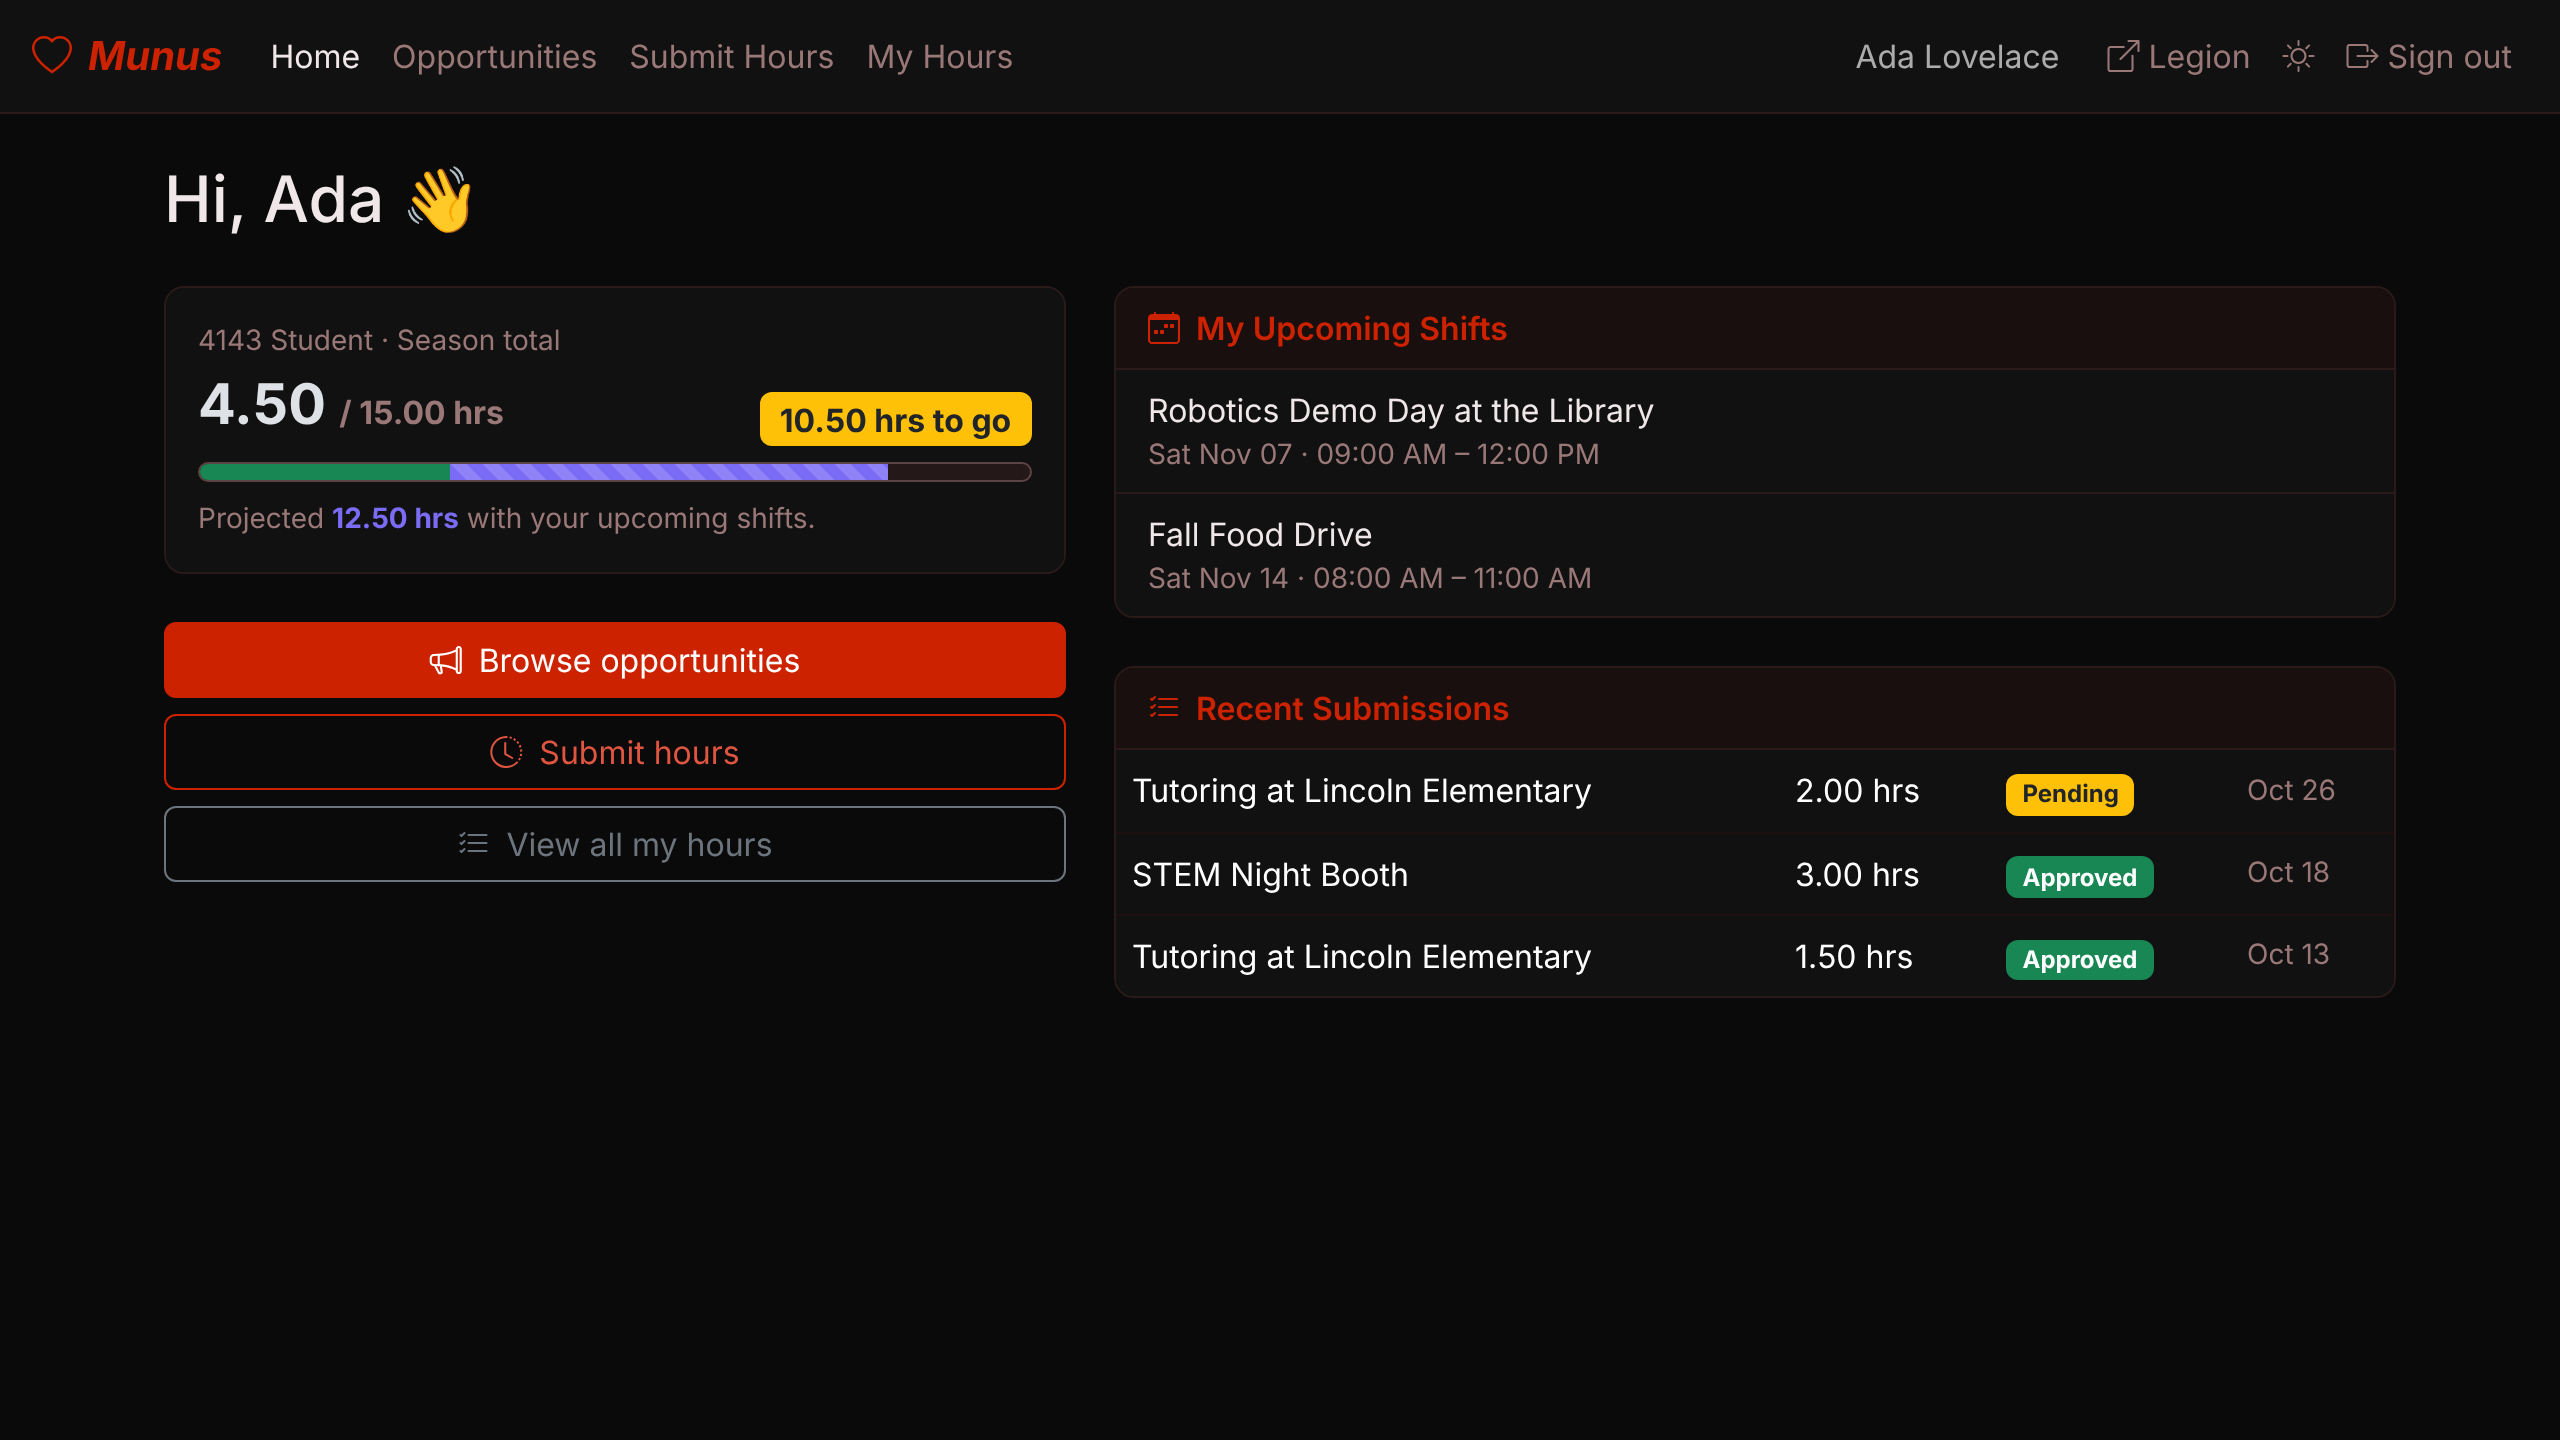
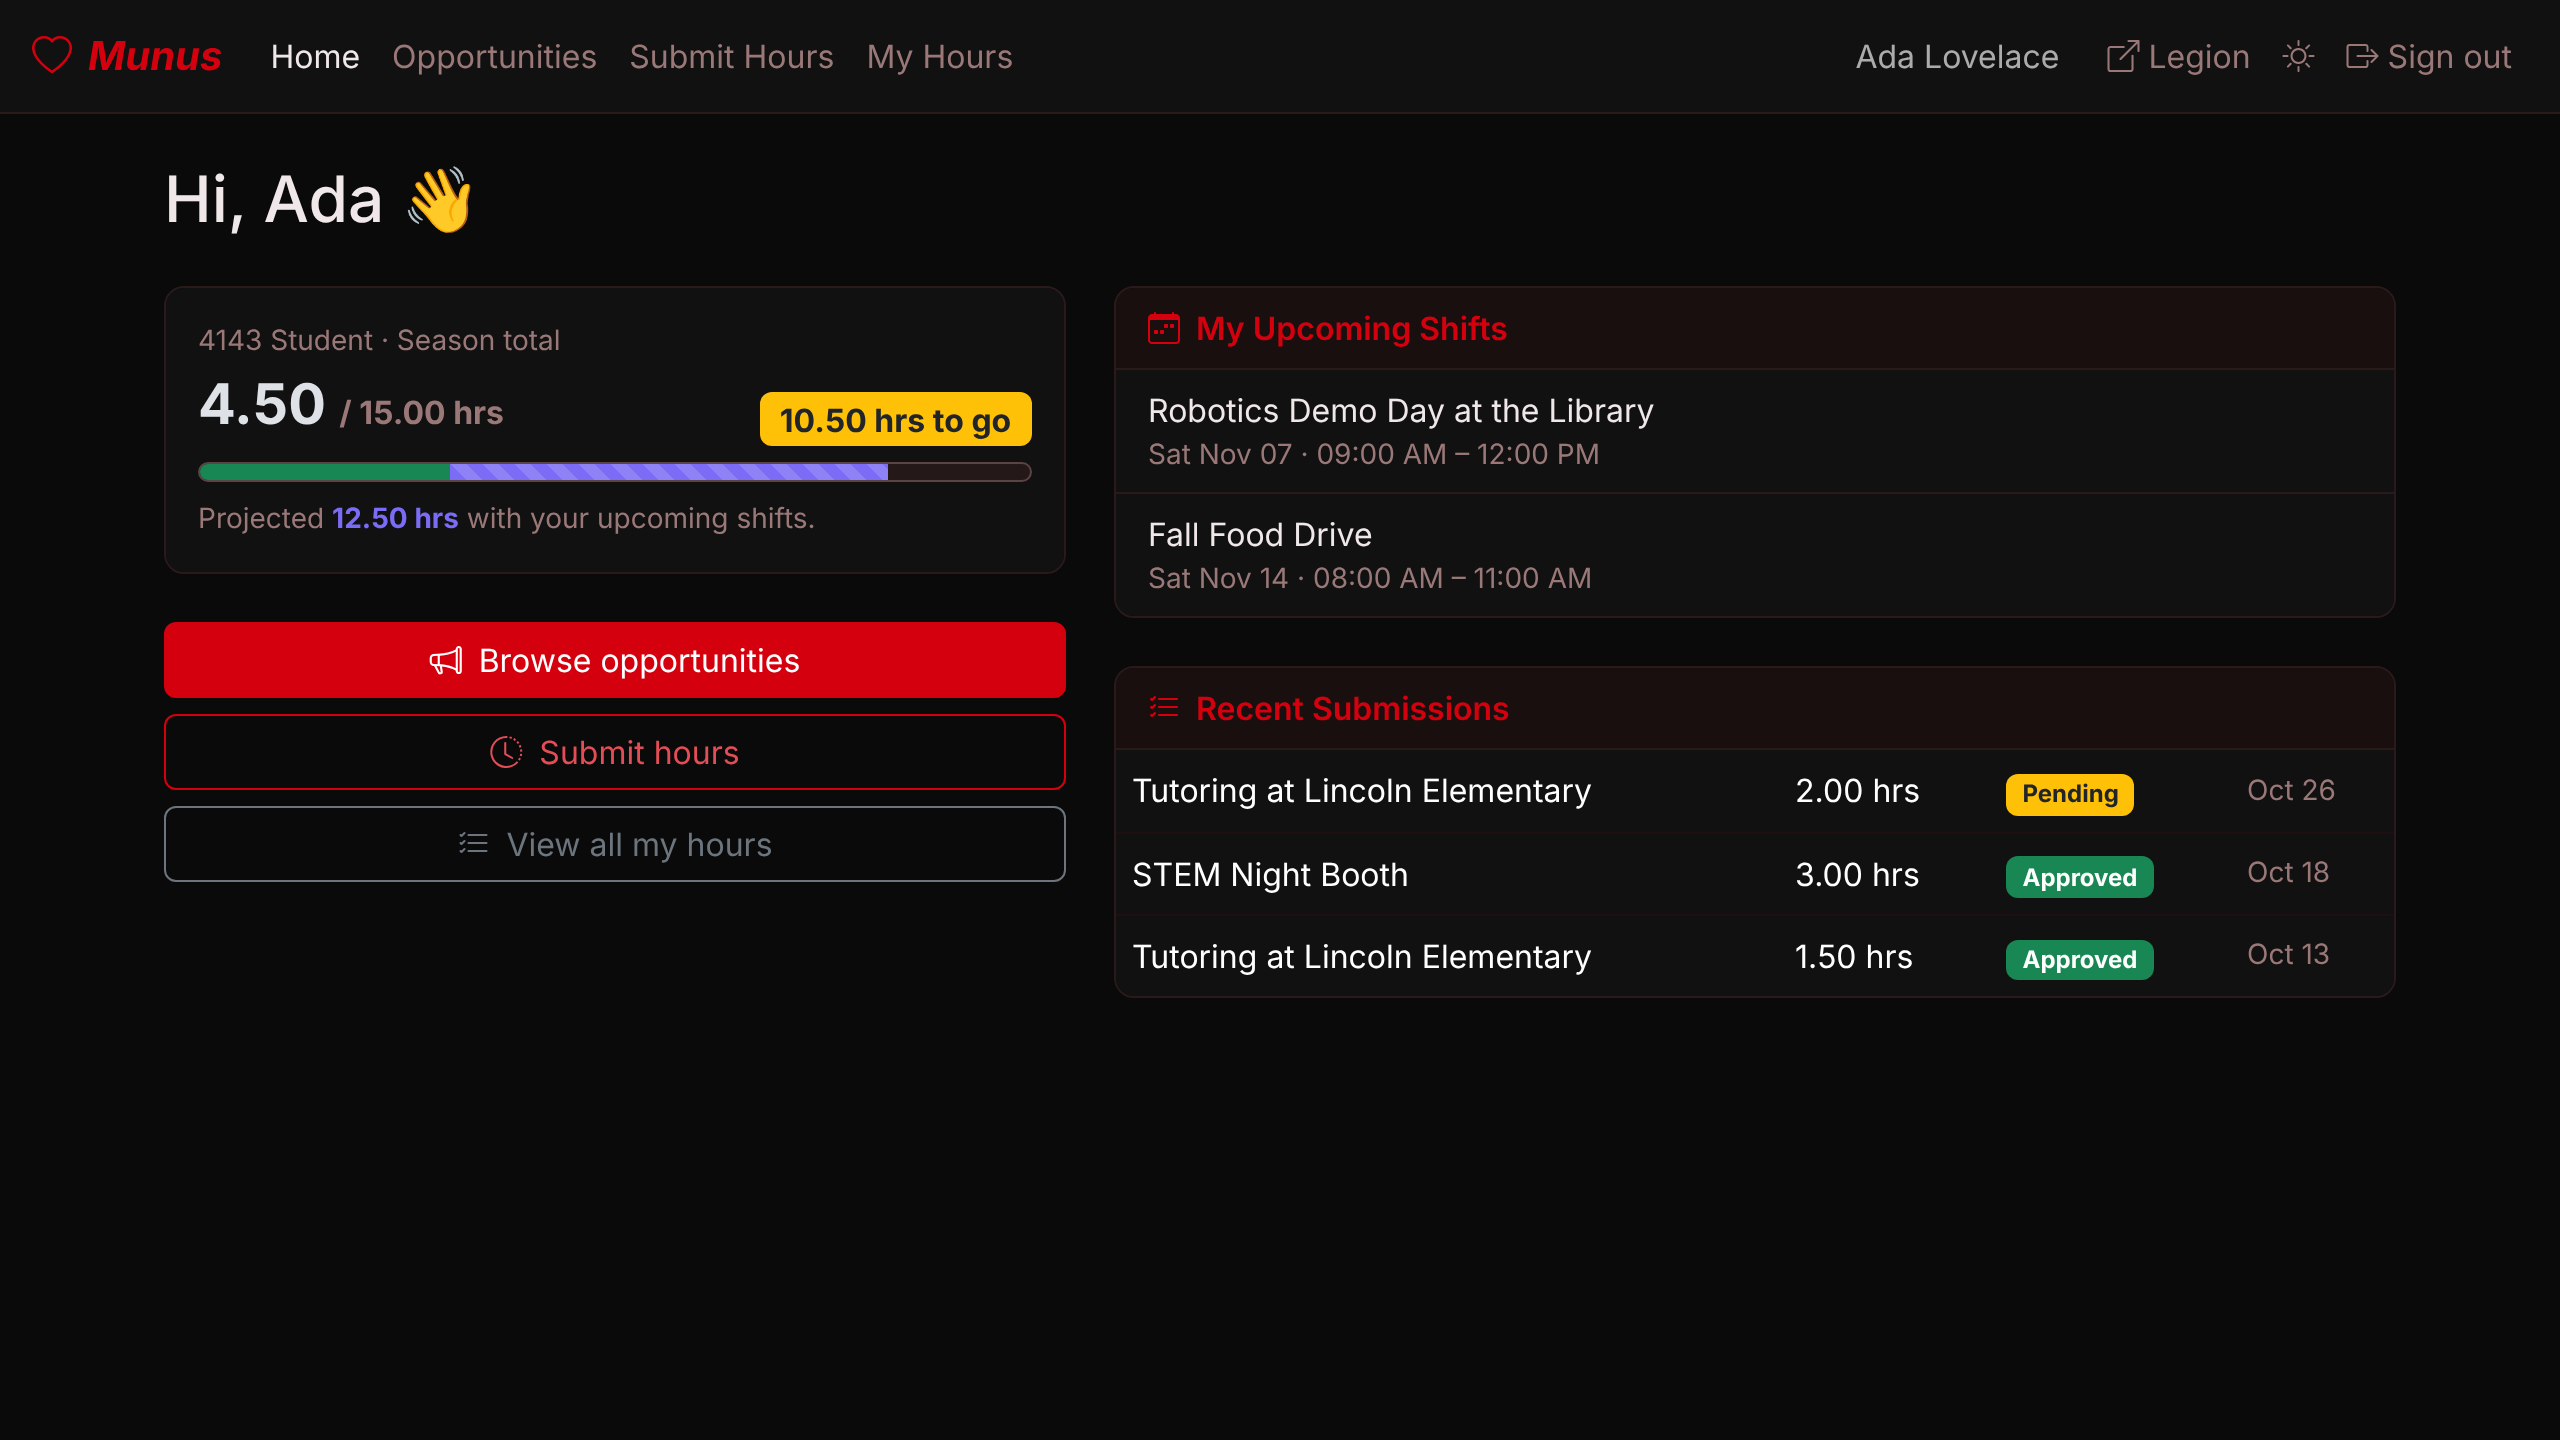
Retake app screenshots from marswars-apps staging (brand red #d5000e); Munus Edit hours now approves
Claude-Session: https://claude.ai/code/session_01CEAFnAAsErczEMNMe26DgW

diff --git a/blog/2026-09-12-mentor-app-guide/index.md b/blog/2026-09-12-mentor-app-guide/index.md
@@ -121,8 +121,8 @@ report right there:
 <img src={SlackMunusReview} alt="A Slack DM from Mercury on a phone: an hour submission from a student with their claimed hours and report, and Approve, Edit hours, and Reject buttons" width="360" />
 </div>
 
-**Approve**, **Edit hours** (if the number needs correcting before you approve it), or
-**Reject** — all from the DM, no site visit needed. A submission you haven't acted on
+**Approve**, **Edit hours** (fix the number and approve it in one step; the student's
+DM says what you changed), or **Reject** — all from the DM, no site visit needed. A submission you haven't acted on
 gets re-sent to you every few days until you do. The same queue lives on the admin
 dashboard if you'd rather work from a browser, or are catching up on more than one:
 
